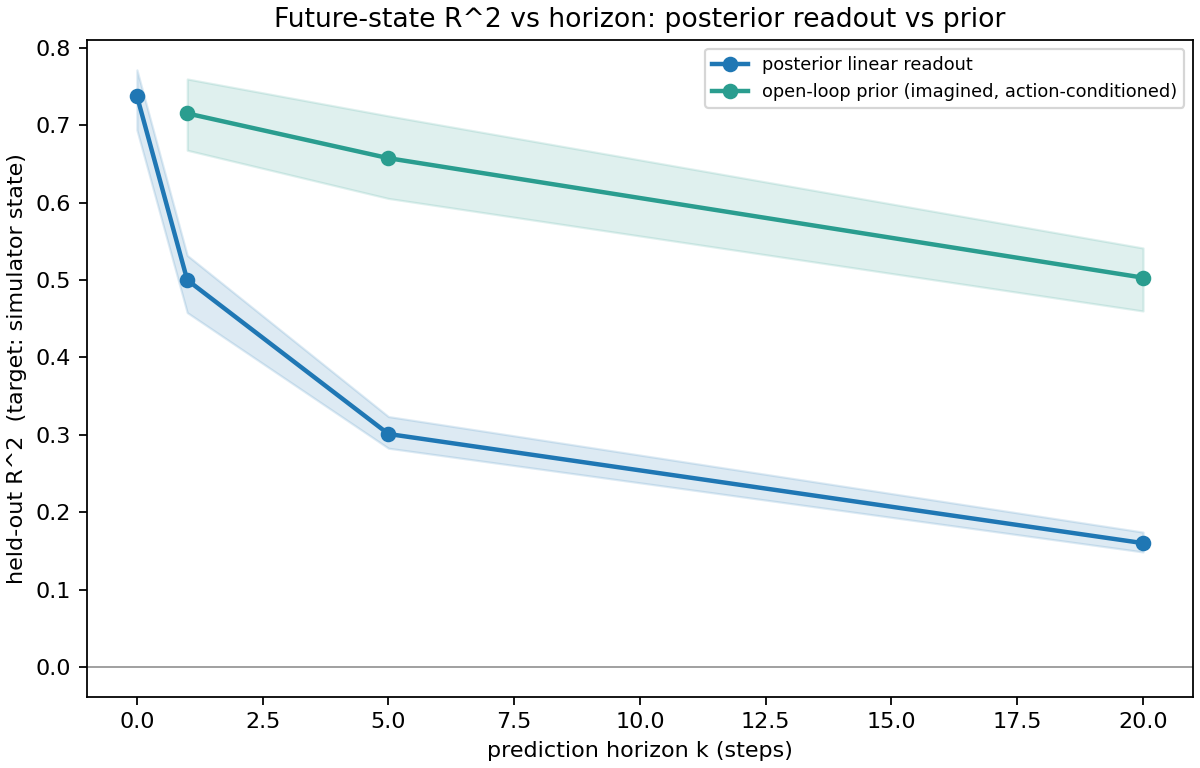
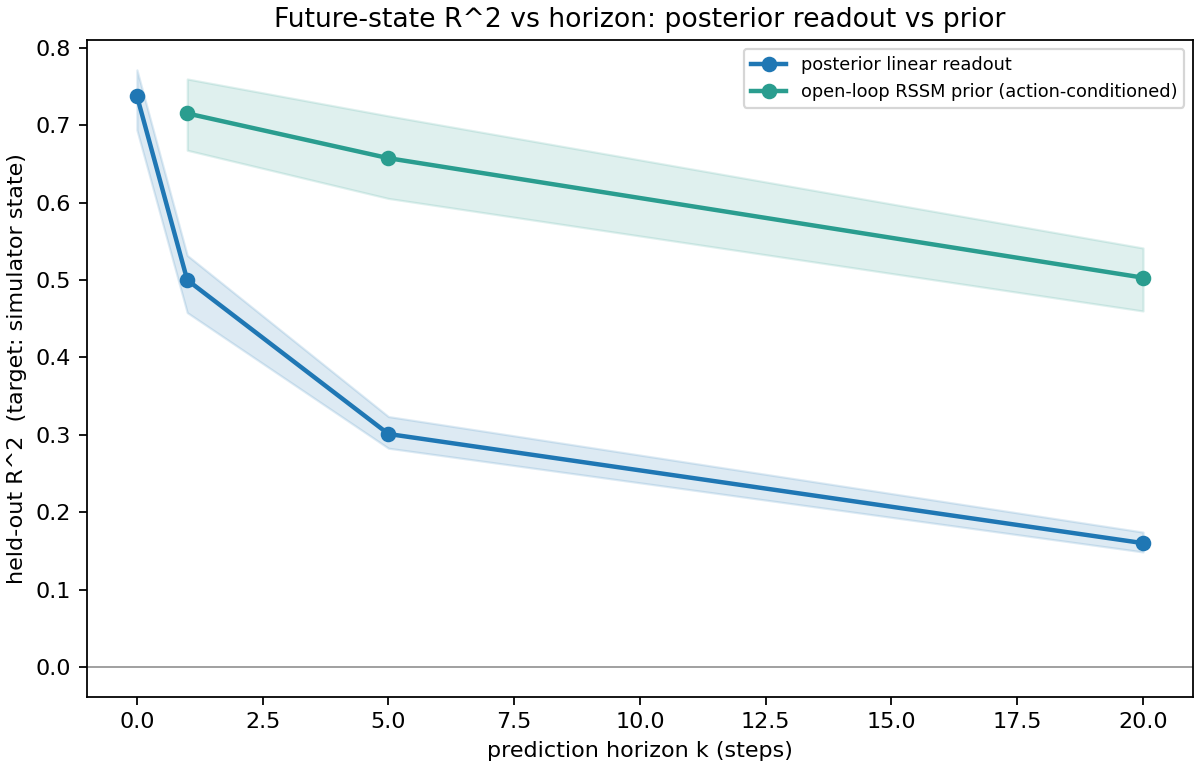
Add VAE dynamics analysis codes

Changed region(s): [[0.5858, 0.0625, 0.9867, 0.1562]]

diff --git a/probing/vae_dynamics.py b/probing/vae_dynamics.py
@@ -1,0 +1,199 @@
+"""Action-conditioned dynamics in the frozen VAE's latent space.
+
+The RSSM's open-loop prior is a learned latent dynamics model; to compare the
+static VAE representation against it on equal footing for prediction, we give
+the VAE its own dynamics. We fit a small forward model
+
+    g(z_t, a_t) ~= z_{t+1} - z_t
+
+on the VAE latents of the *training* episodes (the same split the probes train
+on, so the held-out episodes are never seen), roll it open-loop with the
+recorded actions, and write `vae_imag{k}` features. The probing script
+(`probing.probe`) then treats these as a VAE probe site and scores them against
+the future simulator state, directly alongside the RSSM `imag{k}` sites.
+
+Inputs are the artifacts the pipeline already produces: `vae_mean` from
+`features.npz` and `action`/`is_first` from `traj.npz`. No DreamerV3 model or
+checkpoint is needed.
+
+Run from the repository root:
+
+    python -m probing.vae_dynamics \
+        --features <RUN>/probing_walker_walk_seed0/features.npz \
+        --traj     <RUN>/probing_walker_walk_seed0/traj.npz \
+        --output   <RUN>/probing_walker_walk_seed0/features_vaedyn.npz \
+        --horizons 1 5 20 --test_frac 0.3
+"""
+
+import argparse
+import functools
+import json
+import os
+import pathlib
+import sys
+
+REPO = pathlib.Path(__file__).resolve().parent.parent
+sys.path.insert(0, str(REPO))
+
+import jax
+import jax.numpy as jnp
+import numpy as np
+import optax
+
+f32 = jnp.float32
+
+
+def parse_args():
+  p = argparse.ArgumentParser(description=__doc__)
+  p.add_argument('--features', required=True, help='features.npz (has vae_mean).')
+  p.add_argument('--traj', required=True, help='traj.npz (has action, is_first).')
+  p.add_argument('--output', required=True, help='Augmented features .npz.')
+  p.add_argument('--horizons', type=int, nargs='+', default=[1, 5, 20])
+  p.add_argument('--test_frac', type=float, default=0.3,
+                 help='Held-out episode fraction; must match probing.probe so '
+                      'the dynamics model never sees the probe test episodes.')
+  p.add_argument('--hidden', type=int, default=256)
+  p.add_argument('--layers', type=int, default=2)
+  p.add_argument('--rollout_len', type=int, default=0,
+                 help='Max training rollout horizon (0 = max of --horizons). A '
+                      'multi-step loss keeps open-loop imagination stable.')
+  p.add_argument('--ramp_frac', type=float, default=0.5,
+                 help='Fraction of steps over which the rollout length ramps '
+                      'from 1 to rollout_len (curriculum).')
+  p.add_argument('--steps', type=int, default=6000)
+  p.add_argument('--batch', type=int, default=512)
+  p.add_argument('--lr', type=float, default=1e-3)
+  p.add_argument('--grad_clip', type=float, default=1.0)
+  p.add_argument('--seed', type=int, default=0)
+  return p.parse_args()
+
+
+def init_mlp(d_in, hidden, layers, d_out, rng):
+  sizes = [d_in] + [hidden] * layers + [d_out]
+  params = []
+  for i in range(len(sizes) - 1):
+    w = rng.normal(size=(sizes[i], sizes[i + 1])) * np.sqrt(2.0 / sizes[i])
+    params.append([jnp.asarray(w, f32), jnp.zeros(sizes[i + 1], f32)])
+  return params
+
+
+def forward(params, x):
+  for w, b in params[:-1]:
+    x = jax.nn.relu(x @ w + b)
+  w, b = params[-1]
+  return x @ w + b
+
+
+def residual(params, z, a):
+  """Predicted next standardized latent: z + g([z, a])."""
+  return z + forward(params, jnp.concatenate([z, a], -1))
+
+
+def main():
+  args = parse_args()
+  os.makedirs(os.path.dirname(os.path.abspath(args.output)) or '.', exist_ok=True)
+
+  features = {k: np.asarray(v) for k, v in np.load(args.features).items()}
+  traj = {k: np.asarray(v) for k, v in np.load(args.traj).items()}
+  if 'vae_mean' not in features:
+    raise SystemExit('features.npz has no vae_mean; run features.py with --vae_ckpt.')
+
+  Z = features['vae_mean'].astype(np.float32)          # (N, T, L)
+  A = traj['action'].astype(np.float32)                # (N, T, Adim)
+  N, T, L = Z.shape
+  Adim = A.shape[-1]
+  n_test = max(1, round(args.test_frac * N))
+  n_train = N - n_test
+  print(f'Episodes {N} (train {n_train}, test {n_test}); latent {L}, act {Adim}')
+
+  # Standardize latents by train-episode statistics; work in standardized space.
+  flat_tr = Z[:n_train].reshape(-1, L)
+  zmean = flat_tr.mean(0, keepdims=True)
+  zstd = flat_tr.std(0, keepdims=True)
+  zstd = np.where(zstd < 1e-6, 1.0, zstd)
+  Zn = (Z - zmean) / zstd                              # (N, T, L) standardized
+
+  # Train with a multi-step open-loop rollout loss so the model is stable when
+  # imagined forward: a model fit only on one-step transitions compounds error
+  # and diverges over a long horizon. We roll H = max(horizons) steps from
+  # sampled windows of the train episodes and average the per-step error.
+  H = args.rollout_len or max(args.horizons)
+  assert T > H + 1, (T, H)
+  Zn_tr = jnp.asarray(Zn[:n_train])                    # (n_train, T, L)
+  A_tr = jnp.asarray(A[:n_train])                      # (n_train, T, Adim)
+
+  rng = np.random.default_rng(args.seed)
+  params = init_mlp(L + Adim, args.hidden, args.layers, L, rng)
+  opt = optax.chain(optax.clip_by_global_norm(args.grad_clip),
+                    optax.adam(args.lr))
+  ostate = opt.init(params)
+
+  def rollout_loss(params, ep, st, h):
+    idx = st[:, None] + jnp.arange(h + 1)[None, :]      # (B, h+1) time indices
+    zwin = Zn_tr[ep[:, None], idx]                      # (B, h+1, L)
+    awin = A_tr[ep[:, None], idx[:, :h]]               # (B, h, Adim)
+    z = zwin[:, 0]
+    total = 0.0
+    for j in range(h):
+      z = residual(params, z, awin[:, j])
+      total = total + jnp.mean((z - zwin[:, j + 1]) ** 2)
+    return total / h
+
+  @functools.partial(jax.jit, static_argnums=(4,))
+  def step(params, ostate, ep, st, h):
+    loss, grad = jax.value_and_grad(rollout_loss)(params, ep, st, h)
+    updates, ostate = opt.update(grad, ostate)
+    return optax.apply_updates(params, updates), ostate, loss
+
+  # Curriculum: ramp the rollout horizon from 1 to H, then hold at H. This
+  # reaches the good short-horizon model first and then refines for stability.
+  ramp = max(1, int(args.ramp_frac * args.steps))
+  print(f'Training rollout model (curriculum 1->{H}) on {n_train} episodes...')
+  for s in range(args.steps):
+    h = int(min(H, 1 + (H - 1) * s // ramp))
+    ep = jnp.asarray(rng.integers(0, n_train, args.batch))
+    st = jnp.asarray(rng.integers(0, T - H, args.batch))
+    params, ostate, loss = step(params, ostate, ep, st, h)
+    if s == 0 or (s + 1) % 1000 == 0:
+      print(f'  step {s + 1:>5}  h={h:<2}  rollout MSE {float(loss):.4f}')
+
+  # Open-loop rollout: from each anchor t, apply g for k steps with a_t..a_{t+k-1}.
+  Zn_j = jnp.asarray(Zn)
+  A_j = jnp.asarray(A)
+
+  @functools.partial(jax.jit, static_argnums=(3,))
+  def rollout(params, Zn_all, A_all, k):
+    n, t, l = Zn_all.shape
+    z = Zn_all.reshape(n * t, l)
+    pad = jnp.concatenate([A_all, jnp.zeros((n, k, A_all.shape[-1]), f32)], 1)
+    for j in range(k):
+      aj = jax.lax.dynamic_slice_in_dim(pad, j, t, axis=1).reshape(n * t, -1)
+      z = residual(params, z, aj)
+    return z.reshape(n, t, l)
+
+  out = dict(features)
+  for k in args.horizons:
+    zk = np.asarray(rollout(params, Zn_j, A_j, int(k)))   # standardized z_{t+k}
+    out[f'vae_imag{k}'] = (zk * zstd + zmean).astype(np.float32)
+    print(f'  wrote vae_imag{k}: {out[f"vae_imag{k}"].shape}')
+
+  np.savez_compressed(args.output, **out)
+  # Carry the features meta forward so probing.probe can read it.
+  meta = {}
+  meta_path = args.features + '.meta.json'
+  if os.path.exists(meta_path):
+    with open(meta_path) as fh:
+      meta = json.load(fh)
+  meta['vae_dynamics'] = dict(horizons=args.horizons, test_frac=args.test_frac,
+                              hidden=args.hidden, layers=args.layers,
+                              steps=args.steps)
+  meta.setdefault('horizons', list(args.horizons))
+  meta['sites'] = sorted(set(meta.get('sites', []) +
+                             [f'vae_imag{k}' for k in args.horizons]))
+  with open(args.output + '.meta.json', 'w') as fh:
+    json.dump(meta, fh, indent=2)
+  print(f'Saved augmented features -> {args.output}')
+
+
+if __name__ == '__main__':
+  main()

diff --git a/probing/probe.py b/probing/probe.py
@@ -73,6 +73,12 @@ def site_features(features, fmeta):
   if 'vae_mean' in features:
     sites['vae_enc'] = features['vae_enc']
     sites['vae_latent'] = features['vae_mean']
+    # Open-loop predictions of a learned dynamics model in the VAE latent
+    # space (probing/vae_dynamics.py): the static-representation analog of the
+    # RSSM open-loop prior.
+    for h in fmeta.get('horizons', []):
+      if f'vae_imag{h}' in features:
+        sites[f'vae_imag{h}'] = features[f'vae_imag{h}']
   return sites
 
 
@@ -243,9 +249,12 @@ def build_jobs(sites, targets, masks, horizons, recfields):
       if 'vae_latent' in sites:
         for rf in recfields:
           add('vae', 'vae_latent', 'state', h, rf)
-      # open-loop RSSM prior predicting the matching future state.
+      # open-loop predictions at the matching future state: the RSSM prior and
+      # the learned VAE-latent dynamics baseline.
       if h > 0 and f'imag{h}' in sites:
         add('rssm', f'imag{h}', 'state', h, 1)
+      if h > 0 and f'vae_imag{h}' in sites:
+        add('vae', f'vae_imag{h}', 'state', h, 1)
 
   # Derived dynamical targets, probed at horizon 0.
   for tname in ('gait_phase', 'return_to_go', 'time_to_fall'):

diff --git a/result_images/build_summary_figures.py b/result_images/build_summary_figures.py
@@ -79,10 +79,17 @@ def fig_future_horizon(tabs):
   imag_h = [1, 5, 20]
   imag = np.array([r2(tabs, 'rssm', f'imag{h}', 'state', h, 1)
                    for h in imag_h])
+  series = [(post, hs, RSSM_C, 'posterior linear readout'),
+            (imag, imag_h, '#2a9d8f',
+             'open-loop RSSM prior (action-conditioned)')]
+  # Overlay the VAE-latent learned-dynamics baseline if it was run.
+  vdyn = np.array([r2(tabs, 'vae', f'vae_imag{h}', 'state', h, 1)
+                   for h in imag_h])
+  if not np.all(np.isnan(vdyn)):
+    series.append((vdyn, imag_h, VAE_C,
+                   'open-loop VAE-latent dynamics (baseline)'))
   fig, ax = plt.subplots(figsize=(7.5, 4.8), constrained_layout=True)
-  for arr, xs, c, lab in [(post, hs, RSSM_C, 'posterior linear readout'),
-                          (imag, imag_h, '#2a9d8f',
-                           'open-loop prior (imagined, action-conditioned)')]:
+  for arr, xs, c, lab in series:
     m = np.nanmean(arr, 1)
     ax.fill_between(xs, np.nanmin(arr, 1), np.nanmax(arr, 1), color=c,
                     alpha=0.15)

diff --git a/probing/__init__.py b/probing/__init__.py
@@ -17,6 +17,9 @@ features       : run both frozen models over the probe trajectories and
                  dump features at every probe site.
 targets        : derive probe targets (current/future state, gait phase,
                  time-to-fall) from the logged physics state.
+vae_dynamics   : action-conditioned forward model in the frozen VAE latent
+                 space (the static-representation analog of the RSSM prior);
+                 emits vae_imag{k} open-loop features for probing.
 probe          : the probing battery (ridge + MLP probes, R^2, likelihood).
 recon_over_time: RSSM vs VAE reconstruction error over time (when sequential
                  context helps); reads features.npz, no model needed.

diff --git a/probing/README.md b/probing/README.md
@@ -72,6 +72,22 @@ python -m probing.features \
   --horizons 1 5 20
 ```
 
+### 3b. VAE-latent dynamics baseline — `vae_dynamics.py`
+Trains an action-conditioned forward model in the frozen VAE's latent space
+(`g(z_t,a_t) ≈ z_{t+1}-z_t`, curriculum multi-step rollout loss) and writes
+`vae_imag{k}` open-loop features into an augmented `features_vaedyn.npz`. This
+is the static-representation analog of the RSSM prior, so the probing battery
+can score `vae_imag{k}` against future state alongside the RSSM `imag{k}`.
+
+```bash
+python -m probing.vae_dynamics \
+  --features <RUN>/probing_walker_walk_seed0/features.npz \
+  --traj     <RUN>/probing_walker_walk_seed0/traj.npz \
+  --output   <RUN>/probing_walker_walk_seed0/features_vaedyn.npz \
+  --horizons 1 5 20 --test_frac 0.3
+```
+Then point step 4 at `features_vaedyn.npz` instead of `features.npz`.
+
 ### 4. Run the probing battery — `probe.py`
 Fits ridge + MLP probes over the full (target × site × horizon ×
 receptive-field) sweep and writes `probe_results.csv`, `probe_summary.txt`,
